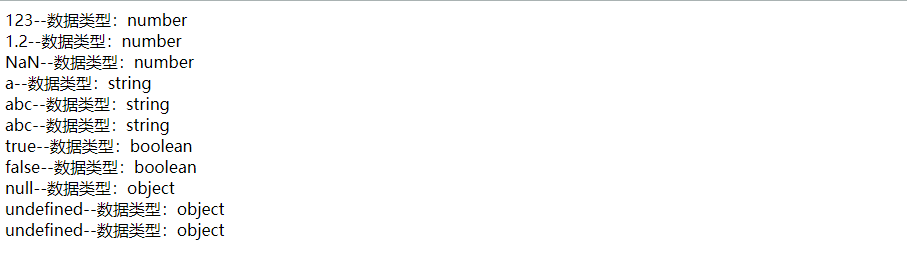
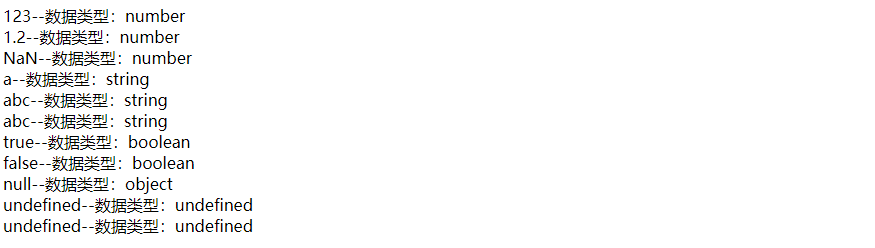
JavaScript 基本语法

Changed region(s): [[0.0, 0.0, 1.0, 0.9597]]

diff --git a/08/JavaScriptDemo/follow/03_JavaScript变量.html b/08/JavaScriptDemo/follow/03_JavaScript变量.html
@@ -25,10 +25,10 @@
         var obj1 = null;
 
         //定义 undefined 当变量定义时没有指定默认值，变量的数据类型为undefined
-        var ud1;
-        var ud2;
+        var ud1 = undefined;
+        var ud2 ;
 
-        //使用domcument对象中的write方法将变量逐个输出网页上显示
+        //使用document对象中的write方法将变量逐个输出网页上显示
         // document.write(num1 + "<br/>");
         // document.write(num2 + "<br/>");
         // document.write(num3 + "<br/>");
@@ -51,8 +51,8 @@
         document.write(bol1 + "--数据类型：" + typeof(bol1) + "<br/>");
         document.write(bol2 + "--数据类型：" + typeof(bol2) + "<br/>");
         document.write(obj1 + "--数据类型：" + typeof(obj1) + "<br/>");
-        document.write(ud1 + "--数据类型：" + typeof(obj1) + "<br/>");
-        document.write(ud2 + "--数据类型：" + typeof(obj1) + "<br/>");
+        document.write(ud1 + "--数据类型：" + typeof(ud1) + "<br/>");
+        document.write(ud2 + "--数据类型：" + typeof(ud2) + "<br/>");
     </script>
 </head>
 <body>
